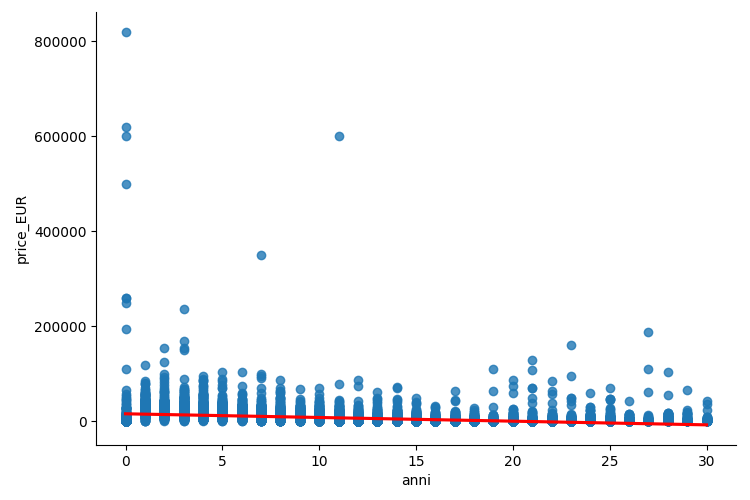
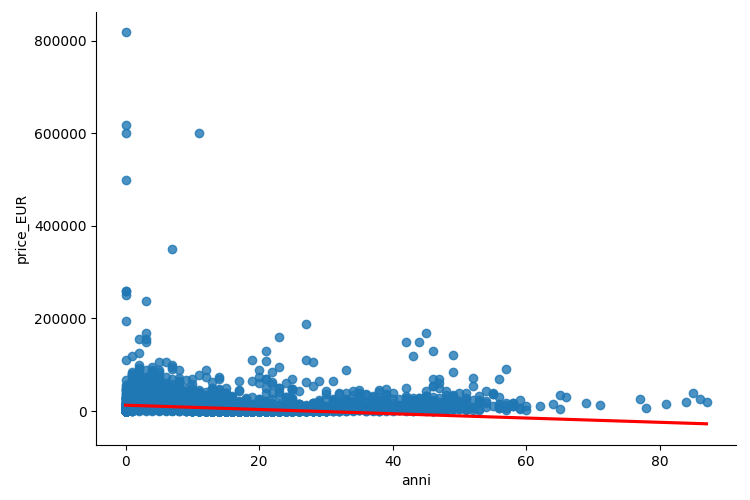
Terminata la stesura dei paragrafi di Data Cleaning e Feature Scaling all'interno della sezione di Data Preparation. Piccole modifiche ai Capitoli 1 e 2.

diff --git a/Documentazione/Capitolo3.tex b/Documentazione/Capitolo3.tex
@@ -18,35 +18,35 @@ Come precedentemente specificato, lo sviluppo del progetto seguirà il modello C
 \subsection{Business Understanding}
 La fase di \textbf{Business Understanding} prevede, come tutte le fasi iniziali di un progetto software, attività di raccolta dei requisiti e definizione degli obiettivi di business che si intende raggiungere. Inoltre è necessario determinare la disponibilità delle risorse, stimare i rischi e selezionare le tecnologie e i tool necessari al raggiungimento degli obiettivi.
 
-\paragraph{Obiettivi di business.}
-AutoMate ha come obiettivo principe quello di conferire ai suoi utilizzatori uno strumento che sia in grado di stimare il valore di un'auto tenendo conto sia di caratteristiche più generali come marca e modello, sia di informazioni più specifiche come tipo di trasmissione, potenza e presenza di danni e/o difetti.
+\paragraph{\textcolor[HTML]{000099}{\underline{Obiettivi di business}}}
+AutoMate ha come obiettivo principe quello di conferire ai suoi utilizzatori uno strumento che sia in grado di stimare il valore di un'auto tenendo conto sia di caratteristiche più generali come marca e modello, sia di informazioni più specifiche come tipo di trasmissione, potenza, tipo di alimentazione.
 
-\paragraph{Disponibilità delle risorse.}
+\paragraph{\textcolor[HTML]{000099}{\underline{Disponibilità delle risorse}}}
 Come già discusso nella \hyperref[sec:problematicheDataset]{\textbf{Sezione 2.4}}
 la bassa disponibilità di Dataset ha portato alla selezione di un insieme di dati non molto recente (i dati sono stati estratti nel 2016). Ciò non rappresenta un grosso problema dal punto di vista della realizzazione del modello poiché la struttura di un ideale Dataset più recente sarebbe abbastanza simile. Tuttavia ciò comporta un certo grado di inattualità che compromette l'utilizzo efficace di AutoMate in tempi odierni.
 
-\paragraph{Stima dei rischi.}
+\paragraph{\textcolor[HTML]{000099}{\underline{Stima dei rischi}}}
 Tra i possibili rischi che si potrebbero presentare è opportuno prestare particolare attenzione alle caratteristiche su cui la predizione sarà effettuata. Se non accuratamente selezionate, le features utilizzate per stimare il valore dell'auto potrebbero portare a risultati non corretti o comunque molto distanti dalla realtà.
 
-\paragraph{Tecnologie e tool utilizzati.}
+\paragraph{\textcolor[HTML]{000099}{\underline{Tecnologie e tool utilizzati}}}
 Per lo sviluppo del modello e le operazioni di acquisizione, analisi e modellazione dei dati verrà utilizzato il linguaggio \textbf{Python} e nello specifico le librerie \textbf{pandas}, \textbf{seaborn} e \textbf{Scikit-learn}.
 \pagebreak
 
 \subsection{Data Understanding}
 La fase di \textbf{Data Understanding} si compone delle operazioni di identificazione, collezione e analisi dei Dataset che possono portare al raggiungimento degli obiettivi. Vengono infine identificati e discussi possibili problemi di qualità dei dati.
 
-\paragraph{Identificazione e Collezione dei Dataset.}
+\paragraph{\textcolor[HTML]{000099}{\underline{Identificazione e Collezione dei Dataset}}}
 Il Dataset selezionato per la risoluzione del problema è stato recuperato da \textbf{Kaggle}, una delle piattaforme più utilizzate nei campi della Data Science e del Machine Learning. Il Dataset è reperibile a questo link:
 \textit{\url{https://www.kaggle.com/datasets/shaunoilund/auto-sales-ebay-germany-random-50k-cleaned}} %Rendere il link blu
 
-\paragraph{Analisi dei Dataset.}
+\paragraph{\textcolor[HTML]{000099}{\underline{Analisi dei Dataset}}}
 Il Dataset utilizzato contiene oltre 37.000 inserzioni di auto caricate su eBay Kleinanzeigan da utenti privati ed è rappresentato da un file in formato .csv (Comma-Separeted Values) all'interno del quale ogni record è descritto da valori separati da virgola.
 
 Il Dataset presenta 18 campi, i quali vengono riportati di seguito con una breve descrizione:
 
 \begin{itemize}
-    \item \textbf{id}: identificativo dell'inserzione;
-    \item \textbf{data\textunderscore crawled}: data di estrazione dell'inserzione.
+    \item \textbf{Id}: identificativo dell'inserzione;
+    \item \textbf{date\textunderscore crawled}: data di estrazione dell'inserzione.
     \item \textbf{car\textunderscore name}: testo dell'inserzione.
     \item \textbf{price\textunderscore EUR}: prezzo dell'auto in euro.
     \item \textbf{ab \textunderscore test}: se l'inserzione è inclusa in un test A/B.
@@ -60,9 +60,9 @@ Il Dataset presenta 18 campi, i quali vengono riportati di seguito con una breve
     \item \textbf{fuel\textunderscore type}: tipo di carburante dell'auto.
     \item \textbf{brand}: marca dell'auto.
     \item \textbf{unrepaired\textunderscore damage}: presenza di danni non riparati all'auto.
-    \item \textbf{date\textunderscore created}: data di creazione dell'inserzione.
+    \item \textbf{add\textunderscore created}: data di creazione dell'inserzione.
     \item \textbf{postal\textunderscore code}: codice postale della locazione dell'auto.
-    \item \textbf{last\textunderscore seen\textunderscore online}: data dell'ultima visita da parte del crawler.
+    \item \textbf{last\textunderscore seen}: data dell'ultima visita da parte del crawler.
 \end{itemize}
 Come si può notare, alcuni dei campi sopraelencati forniscono informazioni soltanto sull'annuncio dell'auto e non sull'auto stessa: non saranno pertanto presi in considerazione.
 
@@ -74,7 +74,7 @@ I risultati più interessanti dell'esplorazione sono di seguito riportati e disc
 \lstset{language=Python}
 \lstset{frame=lines}
 \lstset{caption={\textbf{Codice utilizzato per l'esplorazione dei dati.}}}
-\lstset{label={lst:codice}}
+\lstset{label={lst:codice1}}
 \lstset{basicstyle=\footnotesize}
 \lstset{columns=fullflexible}
 \begin{lstlisting}
@@ -85,14 +85,20 @@ import seaborn as sns
 #Importiamo il file .csv contenente i dati
 df = pd.read_csv("autos_random_50k_cleaned.csv")
 
-#Ricaviamo dalla colonna dell'anno di immatricolazione la colonna degli anni dell'auto
-df['anni'] = 2016 - df['registration_year']
+#Diamo un nome alla colonna degli Id
+df.rename(columns={"Unnamed: 0": "Id"}, inplace=True)
 
-#Rimuoviamo le auto d'epoca
-df = df[(df['anni'] >= 0) & (df['anni'] <= 30)]
+#Settiamo gli Id del DataFrame considerando la colonna degli Id del Dataset
+df.set_index("Id", inplace=True)
+
+#Ricaviamo dalla colonna dell'anno di immatricolazione la colonna degli anni dell'auto
+df['registration_year'] = 2016 - df['registration_year']
+
+#Rinominiamo la colonna dell'anno di immatricolazione
+df.rename(columns={'registration_year': 'anni'}, inplace=True)
 
 #Costruiamo gli scatter plot tra le variabili indipendenti potenza, anni e chilometraggio
-#e la variabile dipendente
+#e la variabile dipendente price_EUR
 sns.pairplot(df, x_vars='power_ps', y_vars='price_EUR', height=5, aspect=1.5, 
             kind='reg', plot_kws={'line_kws':{'color':'red'}})
 
@@ -137,15 +143,159 @@ Dando un ulteriore sguardo al grafico, sembrerebbe che i valori impostati dai ve
 Tra i pochi dati di tipo numerico presenti nel Dataset, questi presentavano le relazioni più interessanti. Altri (come il mese di immatricolazione) non fornivano informazioni rilevanti rispetto alla predizione del prezzo. I dati di tipo qualitativo, invece, verranno trattati diversamente nella fase di Data Preparation, dato che non è possibile visualizzarli direttamente in un grafico a dispersione.
 \pagebreak
 
-\paragraph{Possibili problemi di qualità.}
-Il Dataset utilizzato non è purtroppo esente da difetti. Un esempio è il campo power\textunderscore ps (potenza): alcune istanze presentano valori superiori a 1000 CV, il che fa dedurre che probabilmente è stata inserita la cilindrata al posto della potenza. 
+\paragraph{\textcolor[HTML]{000099}{\underline{Possibili problemi di qualità}}}
+Il Dataset utilizzato non è purtroppo esente da difetti. Un esempio è il campo \textit{power\textunderscore ps} (potenza): alcune istanze presentano valori superiori a 1000 CV, il che fa dedurre che probabilmente, per queste istanze, è stata inserita la cilindrata al posto della potenza. 
 
 Un altro problema è rappresentato dal fatto che all'interno del Dataset sono presenti istanze di auto d'epoca le quali, facendo parte di un mercato completamente diverso, rischiano di influenzare negativamente la stima effettuata dal modello. 
 
-Ciononostante non sono stati rilevati altri problemi di qualità, presumibilmente dovuto al fatto che il Dataset è stato già pulito dall'utente che l'ha caricato su Kaggle.
+Infine alcune righe del Dataset contengono valori "Unknown" (sconosciuti) in corrispondenza di alcune colonne. Essi equivalgono a tutti gli effetti a delle istanze con campi nulli. Sarà quindi necessario utilizzare tecniche di Data Cleaning per risolvere il problema.
 \medskip
 
 \subsection{Data Preparation}
+L'obiettivo della fase di \textbf{Data Preparation} è quello di preparare i dati in maniera tale che possano essere utilizzati nei successivi passi del processo.
+
+È in questa fase infatti che vengono selezionate le caratteristiche (\textbf{features}) del problema che hanno maggiore potenza predittiva, vengono puliti i dati sulla base dei problemi di qualità riscontrati nella fase precedente e vengono infine formattati i dati in maniera tale che possano essere utilizzati da un modello di Machine Learning.
+
+\noindent Gli step della Data Preparation sono quindi essenzialmente 4: \mbox{\textbf{Data Cleaning}}, \textbf{Feature Scaling}, \textbf{Feature Selection}, \textbf{Data Balancing}.
+\bigskip
+\bigskip
+
+\paragraph{\textcolor[HTML]{000099}{\underline{Data Cleaning}}}
+In questa fase vengono risolti i problemi di qualità riscontrati nella fase di esplorazione e analisi dei dati.
+
+Nella fattispecie, il dataset presentava alcuni problemi riguardanti la colonna della potenza (\textit{power\textunderscore ps}) e la colonna degli \textit{anni}.
+
+Per quanto riguarda la potenza, sono state esaminate più accuratamente le istanze che presentavano un valore di \textit{power\textunderscore ps} maggiore di 1000 CV. Trattandosi di potenze ben superiori alla media, probabilmente è stato commesso qualche errore dal venditore in fase di inserimento delle informazioni del veicolo. L'intenzione era quindi quella di rimuovere queste righe dal Dataset.
+
+Tuttavia il codice utilizzato per l'analisi produceva questi risultati:
+\bigskip
+\lstset{language=Python}
+\lstset{frame=lines}
+\lstset{caption={\textbf{Codice utilizzato per analizzare le righe del Dataset con potenza maggiore di 1000 CV.}}}
+\lstset{label={lst:codice2}}
+\lstset{basicstyle=\footnotesize}
+\lstset{columns=fullflexible}
+\begin{lstlisting}
+#Analizziamo le istanze che presentano un valore di power_ps maggiore di 1000 CV
+power_psSubset = df[(df['power_ps'] >= 1000)]
+
+#Visualizziamo il numero di righe del sottoinsieme creato
+print("power_psSubset:", power_psSubset.shape)
+\end{lstlisting}
+
+\begin{figure}
+    \centering
+    \caption{\textbf{Risultati del Codice \ref{lst:codice2}}}
+    \includegraphics{Immagini/RisCodice2.png}
+    \label{fig:my_label}
+\end{figure}
+
+I risultati soprariportati evidenziano che il Dataset contiene solo 8 auto con un valore di \textit{power\textunderscore ps} superiore a 1000 CV, poco più dello 0,02\% dell'intero insieme di dati. 
+
+A tal proposito si è deciso di mantenerli all'interno del Dataset poichè la loro quantità rispetto al numero totale di righe (37866) fa sì che la loro influenza sul regressore sia quasi nulla e quindi trascurabile.
+
+Per quanto concerne invece la colonna degli \textit{anni}, il problema preso in considerazione riguardava la diversità tra il mercato delle auto d'epoca e il mercato delle auto usate ordinarie. Sono state per questo motivo escluse dal Dataset attraverso il codice di seguito riportato:
+
+\lstset{language=Python}
+\lstset{frame=lines}
+\lstset{caption={\textbf{Codice utilizzato per escludere le auto d'epoca dal Dataset.}}}
+\lstset{label={lst:codice3}}
+\lstset{basicstyle=\footnotesize}
+\lstset{columns=fullflexible}
+\begin{lstlisting}
+#Rimuoviamo le auto d'epoca
+df = df[(df['anni'] >= 0) & (df['anni'] <= 30)]
+\end{lstlisting}
+\bigskip
+
+Infine, come precedentemente anticipato, occorre risolvere il problema dei dati mancanti. A tal proposito possono essere utilizzate tecniche di \textbf{Data Imputation}. Nel nostro caso abbiamo optato per la rimozione delle righe del Dataset che presentavano il valore "Unknown" in uno o più campi. Per motivi di Feature Selection descritti nei paragrafi successivi, queste righe sono state rimosse soltanto dopo aver escluso alcune features non rilevanti. Sotto viene riportato il codice utilizzato:
+
+\lstset{language=Python}
+\lstset{frame=lines}
+\lstset{caption={\textbf{Codice utilizzato per la Data Imputation.}}}
+\lstset{label={lst:codice4}}
+\lstset{basicstyle=\footnotesize}
+\lstset{columns=fullflexible}
+\begin{lstlisting}
+#Riduciamo il Dataset alle sole Features selezionate e la variabile Target
+#I motivi sono descritti nel paragrafo relativo alla Feature Selection
+df = df[['price_EUR', 'vehicle_type', 'anni', 'transmission', 'power_ps', 'odometer_km', 'fuel_type', 'brand']]
+
+#Rimuoviamo le righe del Dataset con valori Unknown (sconosciuti)
+df = df[df != "Unknown"]
+df = df.dropna(axis=0)
+\end{lstlisting}
+\bigskip
+\bigskip
+
+\paragraph{\textcolor[HTML]{000099}{\underline{Feature Scaling}}}
+Nella fase di Feature Scaling lo scopo è quello di normalizzare l'insieme di valori delle caratteristiche del Dataset, in maniera tale da conferire la stessa importanza ad ognuna delle features e quindi evitare che il modello sovrastimi o sottostimi l'importanza di una variabile (se questa ha una distribuzione superiore o inferiore rispetto a quella delle altre).
+
+Esistono diverse tecniche di normalizzazione. Nel caso specifico, per garantire che tutte le caratteristiche abbiano lo stesso "peso", si è adottata la \textbf{Z-Score normalization}. Questa procedura consiste nel trasformare ogni valore in una unità di deviazione standard rispetto alla media della serie di dati. 
+
+Di seguito viene raffigurato il codice che ci ha permesso di effettuare l'operazione di normalizzazione sulle colonne numeriche del Dataset:
+
+\lstset{language=Python}
+\lstset{frame=lines}
+\lstset{caption={\textbf{Codice utilizzato per la Z-Score normalization.}}}
+\lstset{label={lst:codice5}}
+\lstset{basicstyle=\footnotesize}
+\lstset{columns=fullflexible}
+\begin{lstlisting}
+#Selezioniamo il sottoinsieme di features da normalizzare
+toNormalize = df[['power_ps', 'anni', 'odometer_km']]
+
+#Sovrascriviamo le colonne del Dataset originale
+df[['power_ps', 'anni', 'odometer_km']] = toNormalize.apply(zscore)
+\end{lstlisting}
+\bigskip
+
+Le altre features di tipo numerico non sono state normalizzate a causa del loro significato: l'\textit{Id} è soltanto un riferimento ad una precisa istanza del Dataset; il \textit{postal\textunderscore code} e \textit{registration\textunderscore month} sono informazioni superflue per il problema in esame.
+\bigskip
+\bigskip
+
+\paragraph{\textcolor[HTML]{000099}{\underline{Feature Selection}}}
+In questa fase avviene il processo di definizione delle features che possono caratterizzare gli aspetti principali del problema e, quindi, avere una buona potenza predittiva.
+Il processo che definisce le metodologie per identificare le caratteristiche dai dati grezzi estraibili è detto \textbf{Feature Engineering}.
+
+Una delle tecniche più utilizzate in questo contesto è la \textbf{Feature Selection}, che consiste nel selezionare le variabili più significative partendo da quelle a disposizione.
+
+Rispetto al problema considerato, segue una descrizione dettagliata del processo di Feature Selection messo in atto.
+
+\begin{itemize}
+    \item \textbf{Features scartate:}
+    le features che sono state scartate sono le seguenti: \textcolor{red}{\textit{date\textunderscore crawled}}, \textcolor{red}{\textit{ad\textunderscore created}}, \textcolor{red}{\textit{postal\textunderscore code}}, \textcolor{red}{\textit{last\textunderscore seen}}, \textcolor{red}{\textit{car\textunderscore name}}, \textcolor[HTML]{00AA00}{\textit{registration\textunderscore month}}, \textcolor[HTML]{00AA00}{\textit{ab\textunderscore test}}, \textit{unrepaired\textunderscore damage} e \textit{model} .    
+    
+    Le \textcolor{red}{features in rosso} sono state scartate perché fornivano dettagli relativi all'inserzione piuttosto che all'auto, ed aggiungevano quindi solo rumore.
+
+    Le \textcolor[HTML]{00AA00}{features in verde} invece, sono state scartate perché non utili ai fini della risoluzione del problema (il mese di immatricolazione è molto meno importante dell'anno e i dati per l'A/B Testing non aiutano in alcun modo il modello).
+
+    La feature relativa alla presenza di danni non riparati (\textit{unrepaired\textunderscore damage}), seppur apparantemente discriminante, non può essere utilizzata efficacemente. Questo perché il valore di un'auto, in caso di danni, è influenzato non solo dalla loro presenza ma anche dalla loro gravità.
+    
+    Infine, il \textit{model} è stato rimosso poiché caratterizzare il problema prendendo in considerazione anche i modelli delle auto risultava molto complesso. Inoltre il modello sarebbe stato incapace di stimare il valore di un'auto nei casi in cui, per il modello di quest'ultima, non ci fossero state corrispondenze nel Training Set.
+
+    \medskip
+    \item \textbf{Feature selezionate:}
+
+    Le features che sono state invece mantenute sono: \textit{brand}, \mbox{\textit{vehicle\textunderscore type}}, \textit{registration\textunderscore year} (convertito in \textit{anni}), \textit{transmission}, \mbox{\textit{power\textunderscore ps}}, \mbox{\textit{odometer\textunderscore km}}, \textit{fuel\textunderscore type}
+
+
+    Trattandosi di un problema di regressione, bisogna gestire le features qualitative in maniera diversa. L'approccio utilizzato è il seguente:
+    \medskip
+    
+    la feature \textit{brand} è stata convertita nella feature \textit{\textbf{fascia}}. Ad ogni marca di auto è stato assegnato un valore tra "bassa", "media", "alta" che fa riferimento alla fascia di prezzi media delle auto prodotte da quel brand. Ad esempio FIAT corrisponde a "bassa", Volkswagen a "media" e Porsche a "alta".
+
+    Ad ognuna di queste fasce viene fatto corrispondere un prezzo di partenza uguale alla media dei prezzi delle auto appartenenti a quella specifica classe.
+
+    \begin{itemize}
+    \renewcommand\labelitemi{\textbf{-}}
+        
+    \end{itemize}
+    
+\end{itemize}
+
+\paragraph{Data Balancing.}
+
 
 \subsection{Data Modeling}
 

diff --git a/Documentazione/Capitolo2.tex b/Documentazione/Capitolo2.tex
@@ -5,10 +5,11 @@ L'obiettivo fondamentale di AutoMate è quello di realizzare un'applicazione Des
 \section{Specifica PEAS}
 Un ambiente viene generalmente descritto tramite la formulazione PEAS, ovvero 
 Performance, Environment, Actuators, Sensors.
-\paragraph{Performance.} Fa riferimento alla misura di prestazione adottata per valutare l'operato dell'agente. Nel nostro caso, la misura di prestazione è data dall'accuratezza della predizione rispetto al valore reale dell'auto.
-\paragraph{Environment.} Descrizione degli elementi che formano l'ambiente. Nel nostro caso l'ambiente è costituito dagli utenti che utilizzano l'applicazione e dall'insieme di auto e le loro caratteristiche.
-\paragraph{Actuators.} Gli attuatori disponibili all'agente per intraprendere le azioni. Nel nostro caso l'attuatore corrisponde ad uno schermo utilizzato per mostrare il valore della predizione all'utente.
-\paragraph{Sensors.} I sensori attraverso i quali riceve gli input percettivi. Nel nostro caso il sensore è rappresentato da un Form compilato dall'utente grazie ad una tastiera.
+\paragraph{\textcolor[HTML]{000099}{\underline{Performance}}} Fa riferimento alla misura di prestazione adottata per valutare l'operato dell'agente. Nel nostro caso, la misura di prestazione è data dall'accuratezza della predizione rispetto al valore reale dell'auto.
+\paragraph{\textcolor[HTML]{000099}{\underline{Environment}}} Descrizione degli elementi che formano l'ambiente. Nel nostro caso l'ambiente è costituito dagli utenti che utilizzano l'applicazione e dall'insieme di auto e le loro caratteristiche.
+\paragraph{\textcolor[HTML]{000099}{\underline{Actuators}}} Gli attuatori disponibili all'agente per intraprendere le azioni. Nel nostro caso l'attuatore corrisponde ad uno schermo utilizzato per mostrare il valore della predizione all'utente.
+
+\paragraph{\textcolor[HTML]{000099}{\underline{Sensors}}} I sensori attraverso i quali riceve gli input percettivi. Nel nostro caso il sensore è rappresentato da un Form compilato dall'utente grazie ad una tastiera.
 \subsection{Caratteristiche dell'ambiente}
 Di seguito sono elencate le caratteristiche principali dell'ambiente:
 \begin{itemize}

diff --git a/Documentazione/Capitolo1.tex b/Documentazione/Capitolo1.tex
@@ -1,11 +1,13 @@
 \chapter{Introduzione}
 \section{Il progetto AutoMate}
-\textbf{AutoMate} è un progetto sviluppato da due studenti dell'Università degli Studi di Salerno per l'Insegnamento di Fondamenti di Intelligenza Artificiale. 
-Il suo principale obiettivo è quello di realizzare un agente intelligente capace di stimare il valore di un'auto usata in base alle caratteristiche più rilevanti.
+\textbf{AutoMate} è un progetto sviluppato da due studenti dell'Università degli Studi di Salerno 
+per l'Insegnamento di Fondamenti di Intelligenza Artificiale. Il suo principale obiettivo è quello di realizzare 
+un agente intelligente capace di stimare il valore di un'auto usata in base alle caratteristiche più rilevanti.
 \medskip
 \section{A cosa serve?}
-Capita molto spesso che, volendo mettere in vendita un'auto usata, sia difficile fare una stima corretta del suo valore. Di solito, infatti, si tende a sovrastimare 
-il suo prezzo reale, ad esempio ignorando eventuali danni e/o difetti.
+Capita molto spesso che, volendo mettere in vendita un'auto usata, sia difficile fare una stima corretta del suo valore. 
+Di solito, infatti, si tende a sovrastimare il suo prezzo reale.
 
-In questo contesto AutoMate si propone di fornire uno strumento volto a risolvere questo tipo di problematiche, conferendo ai venditori un punto di riferimento 
-per effettuare stime sul valore della propria auto, e guidando gli acquirenti a distinguere le offerte più convenienti da quelle meno convenienti.
+In questo contesto AutoMate si propone di fornire uno strumento volto a risolvere questo tipo di problematiche, 
+conferendo ai venditori un punto di riferimento per effettuare stime sul valore della propria auto, 
+e guidando gli acquirenti a distinguere le offerte più convenienti da quelle meno convenienti.

diff --git a/Documentazione/main.tex b/Documentazione/main.tex
@@ -5,8 +5,10 @@
 \usepackage{hyperref}
 \usepackage{graphicx}
 \usepackage{float}
+\usepackage{xcolor}
 \usepackage{listings}
 \graphicspath{ {./images/} }
+\renewcommand{\lstlistingname}{Codice}
 
 \begin{document}
 \tableofcontents
